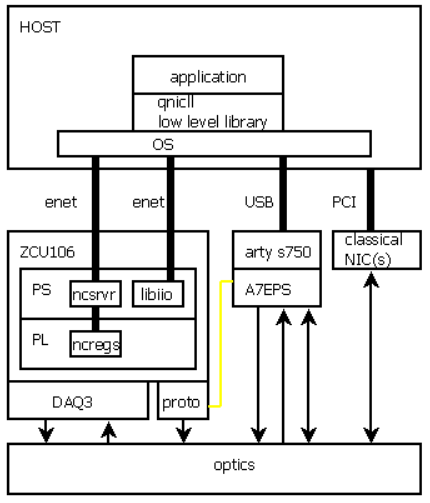
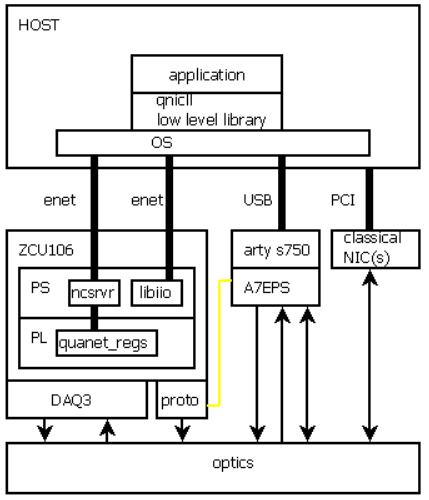
minor doc changes

Changed region(s): [[0.0, 0.0, 1.0, 0.99], [0.0909, 0.39, 0.1818, 0.42]]

diff --git a/README.md b/README.md
@@ -92,5 +92,5 @@ This fits into the qnic as shown.  It's not ideal, but it's a first step.
 
 ![qnic layers!](assets/qnic_layers.png "qnic layers")
 
-To move data, qnicll uses AD's libiio library.  In the PL (programmable logic) of the FPGA, "qregs" means "quanet regs", and it's the small set of registers we added in order to implement the LFSR-based probe generation, the syncronized transmit and recieve, and the driver for the fast optical switch for noise measurements.  (library/quanet_regs).  Libiio knows nothing about these, so we wrote a driver "qsrvr" that mmaps the registers so they can be used.  qnicll connects to qsrvr to access these registers.  Eventually we can access these through PCI, and we can get rid of qsrvr.  Eventually we can get also rid of the USB connection to the arty S750 board, and use the rs422 link shown in yellow (this is not currently used).
+To move data, qnicll uses AD's libiio library.  In the PL (programmable logic) of the FPGA, "quanet regs" are the small set of registers we added in order to implement the LFSR-based probe generation, the syncronized transmit and recieve, and the synchronized driver for the fast optical switch for noise measurements.  (see library/quanet_regs).  Libiio knows nothing about these, so we wrote a driver "qsrvr" that mmaps the registers so they can be used.  qnicll connects to qsrvr to access these registers.  Eventually when we can access these registers through PCI, we can get rid of qsrvr.  Eventually we can get also rid of the USB connection to the arty S750 board, and use the rs422 link shown in yellow (this is not currently used).
 
